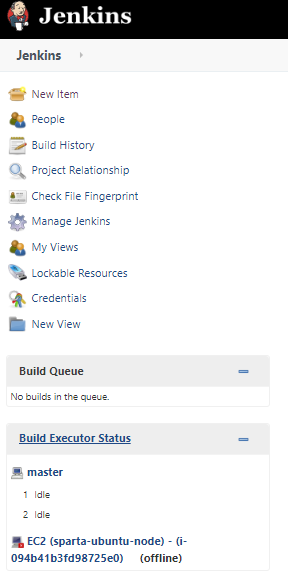
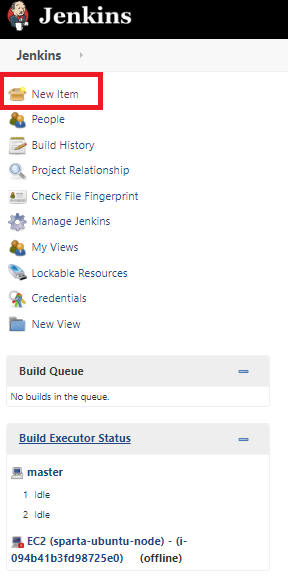
More updates on Jenkins

Changed region(s): [[0.0, 0.1233, 0.375, 0.2158]]

diff --git a/jenkins.md b/jenkins.md
@@ -34,17 +34,50 @@ Jenkins is an **open-source automation server** in which the central build and C
 * supports distributed builds with master-slave architecture.
 
 
+
+
 <br>
-
-### Jenkins Navigation Panel:
-
-![AltText](panel.png)
-
-Here you can crate a new job and see your Build History. 
-
 
 ### Jenkins Job page:
 
 ![AltText](job.png)
 
-You can see everything to do with your Job, including all the build history.
+You can see everything to do with your Job.
+
+<br>
+
+## Steps:
+
+1. Start a new Job: 
+
+![AltText](panel.png)
+
+2. Choose a name and then click Freestyle project:
+
+![AltText](name.png)
+
+3. Write a Description and Select Discard old builds:
+
+![AltText](description.png)
+
+4. Enter the IP Address for the repo:
+![AltText](github.png)
+
+5. Enter the SSH url for the repo and the key to access:
+![AltText](github_repo.png)
+
+6. Tick "Provide Noge & npm bin/folder to PATH" box:
+
+![AltText](npm.png)
+
+7. And 'Execute shell' and enter:
+
+```shell
+cd app
+npm install
+npm test
+```
+
+8. After you saved it, press Build Now:
+
+![AltText](build.png)
